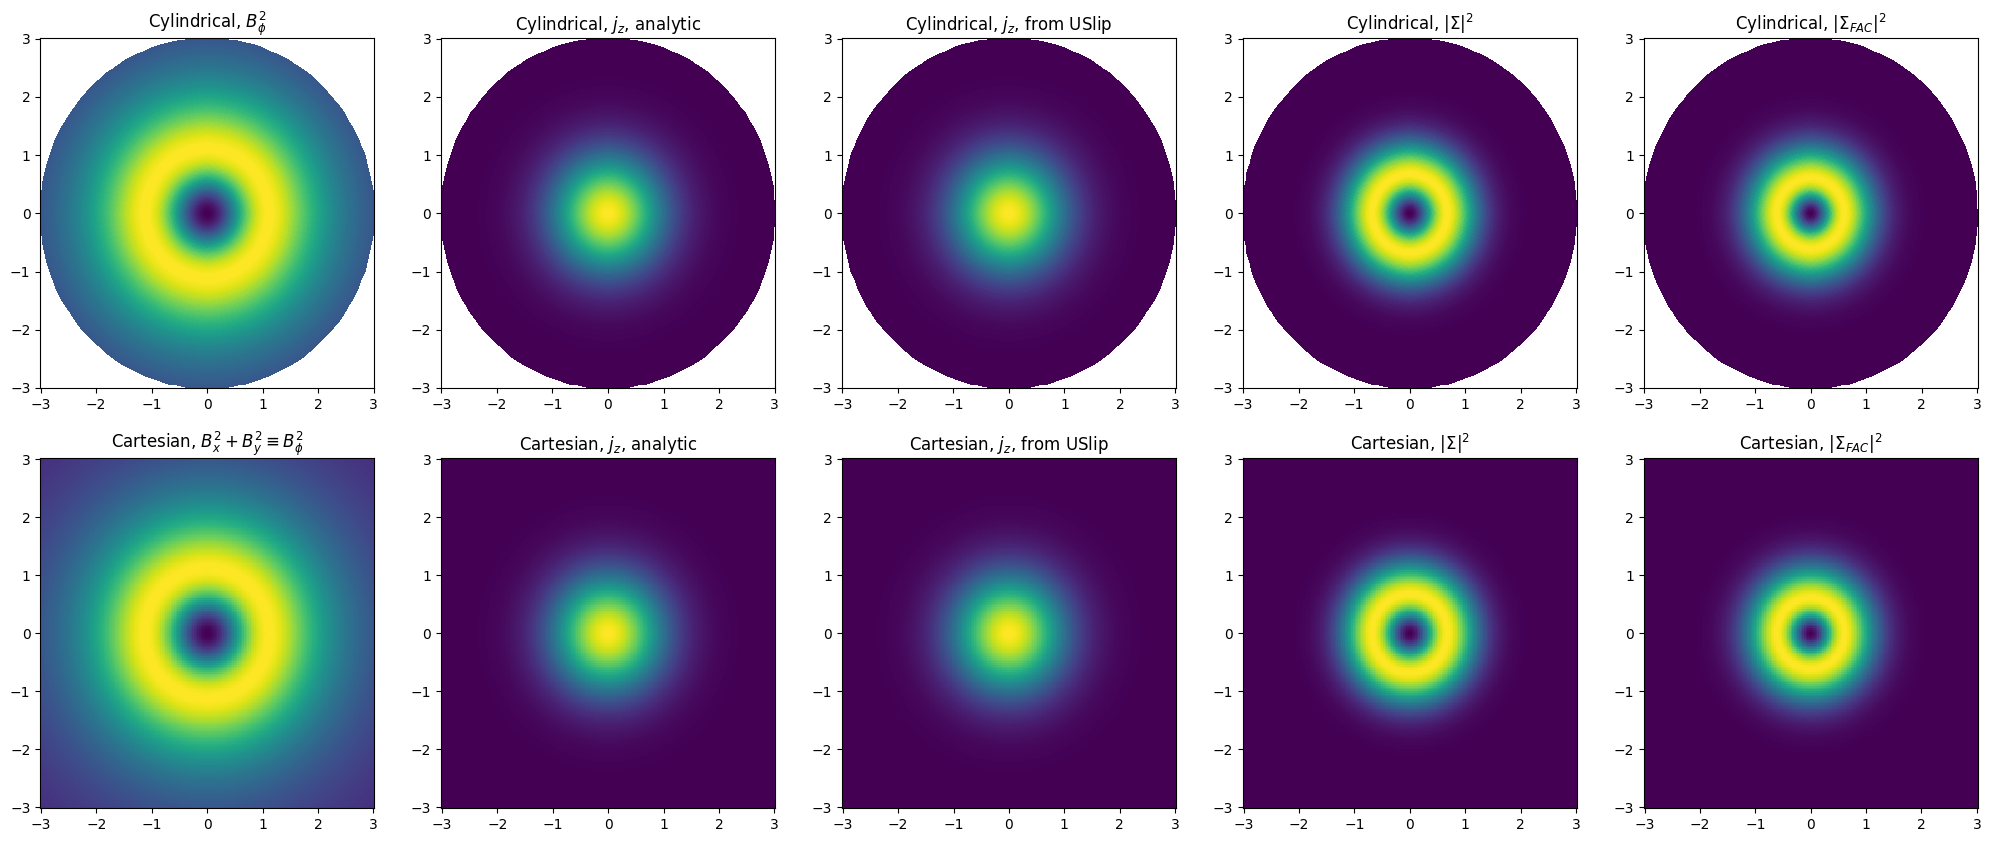
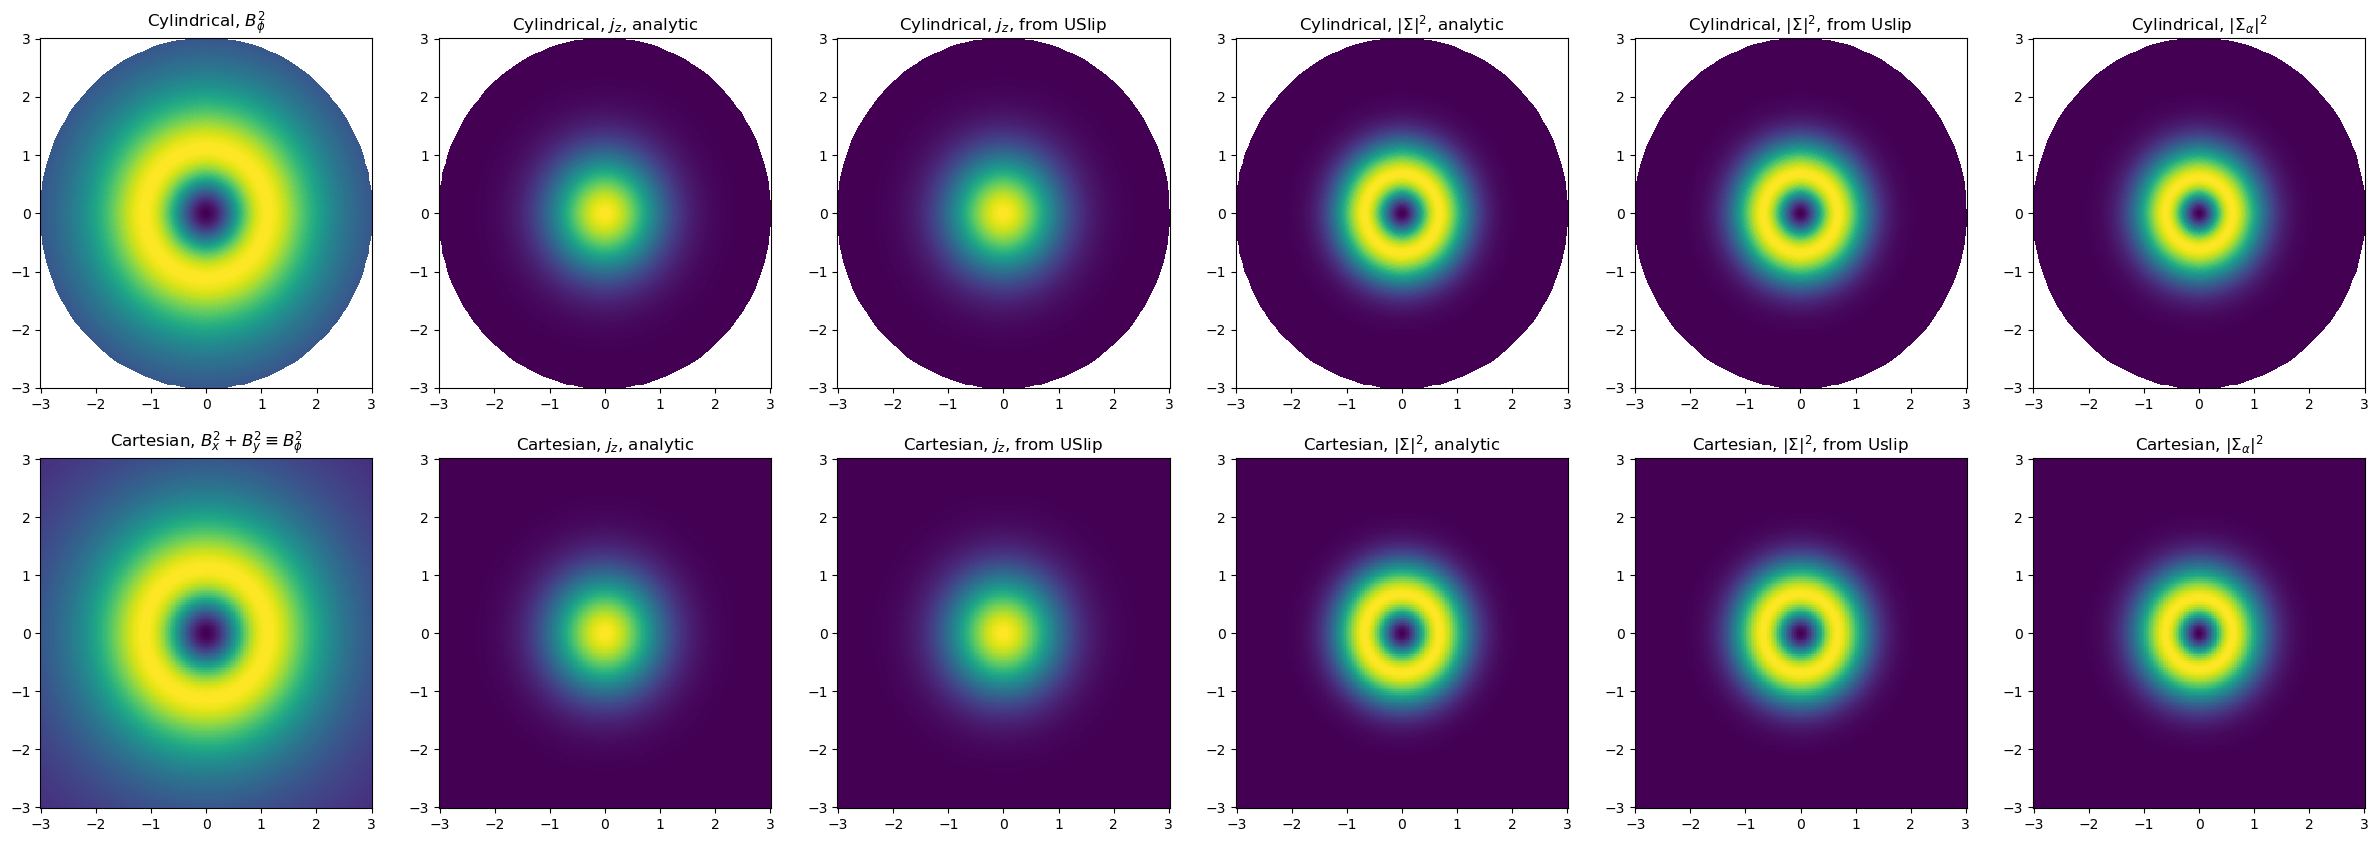
Change manual from FAC to alpha

diff --git a/Documentation/Manual.tex b/Documentation/Manual.tex
@@ -78,7 +78,7 @@ You should see the following 3D rendering in \texttt{mayavi} of $\mathrm{slog}(Q
 \vspace{2mm}
 {\large \textbf{Example 2: (\texttt{Python} call) Synoptic Magnetogram}}
 
-This example requires a few additional modules. Besides the usual, you will need to have the \texttt{Python} modules \texttt{wget} and \texttt{astropy} installed. You can do this by setting up a virtual environment \textit{etc}, or executing the following (you may need to have administrator rights or add the suffix \texttt{-\,-user}):
+This example requires a few additional modules. Besides the usual, you will need to have the \texttt{Python} modules \texttt{wget}, \texttt{astropy}, \texttt{pfsspy} and \texttt{sunpy} installed. You can do this by setting up a virtual environment \textit{etc}, or executing the following (you may need to have administrator rights or add the suffix \texttt{-\,-user}):
 
 $\quad\quad$\texttt{pip install astropy}
 
@@ -107,10 +107,10 @@ $\quad\quad$\texttt{python Gaussian\_Current\_USlip.py}
 
 The script wil generate a $B$-field on a grid, corresponding to something like a Z-pinch experiment. A Gaussian current profile flows in the $\hat{z}$ direction producing its own annular field through $\vec{j}=\nabla \times \vec{B}$, in addition to a constant field applied also in the $\hat{z}$ direction. The result is a helical field around this axis, such as might be seen in a tokamak.
 
-The \texttt{USlip} routines will process this $B$-field to compute the current density $\vec{j}$, the fieldline slippage rate $\vec{\Sigma}$, and the slippage from field-aligned currents $\vec{\Sigma}_{FAC}$. In fact, both a Cartesian and cylindrical version of this field is computed and processed. You should see the following figure, summarizing these quantities for both coordinate systems:
+The \texttt{USlip} routines will process this $B$-field to compute the current density $\vec{j}$, the fieldline slippage rate $\vec{\Sigma}$, and the slippage from field-aligned twist $\vec{\Sigma}_{\alpha}$. In fact, both a Cartesian and cylindrical version of this field is computed and processed. You should see the following figure, summarizing these quantities for both coordinate systems:
 
 \begin{center}
-\includegraphics[scale=0.32]{Gaussian_Current_USlip.png}
+\includegraphics[scale=0.26]{Gaussian_Current_USlip.png}
 \end{center}
 
 \newpage
@@ -434,23 +434,6 @@ You will need to add some command-line arguments from the table below:
 \vspace{2mm}
 
 Likewise, you can specify a command file
-
-\begin{tabular}{|c|l|}		
-		\hline
-		\textbf{Code} & \textbf{Effect} \\\hline\hline
-		\texttt{G:} & \textbf{g}eometry: $0 =$ Cartesian; $1 =$ Spherical; $2 =$ Cylindrical  \\\hline
-		\texttt{R:} & print available \textbf{r}esources (CPUs for now) \\\hline
-		\texttt{NP:} &  \textbf{n}umber of \textbf{p}rocessors (CPU) \\\hline
-		\texttt{PX:} & \textbf{p}eriodic \textbf{X} \\\hline
-		\texttt{PY:} & \textbf{p}eriodic \textbf{Y}  \\\hline
-		\texttt{PZ:} & \textbf{p}eriodic \textbf{Z}  \\\hline
-		\texttt{PP:} & \textbf{p}eriodic $\phi$  \\\hline
-		\texttt{GS:} & \textbf{g}rid \textbf{s}eparate or \textbf{s}taggered  \\\hline
-		\texttt{BT:} & $\mathbf{B}$ file \textbf{t}ype (as \texttt{UFiT}) \\\hline
-		\texttt{B:} & full path to $\mathbf{B}$ file \textit{e.g.} \texttt{./dir/ufit.bin} \\\hline
-		\texttt{OD:} & full path to \textbf{o}utput \textbf{d}irctory, \textit{e.g.} \texttt{./dir/} \\\hline
-
-\end{tabular}
 
 Note that, unlike \texttt{UFiT}, the command line and the \texttt{Python} versions, when running with $\quad$ \texttt{write\_output = False}, will not output a bespoke file, but instead will create a copy with the new data appended. For example, \texttt{DUMFRIC} outputs will create a new \texttt{netCDF} file with new arrays; \texttt{ARMS} outputs will have new variables added to their adaptive grids and so on. You must therefore provide the argument \texttt{-od} with a fresh directory to write this output. Alternatively, use the \texttt{Python} interface, as in Example 3 above.
 